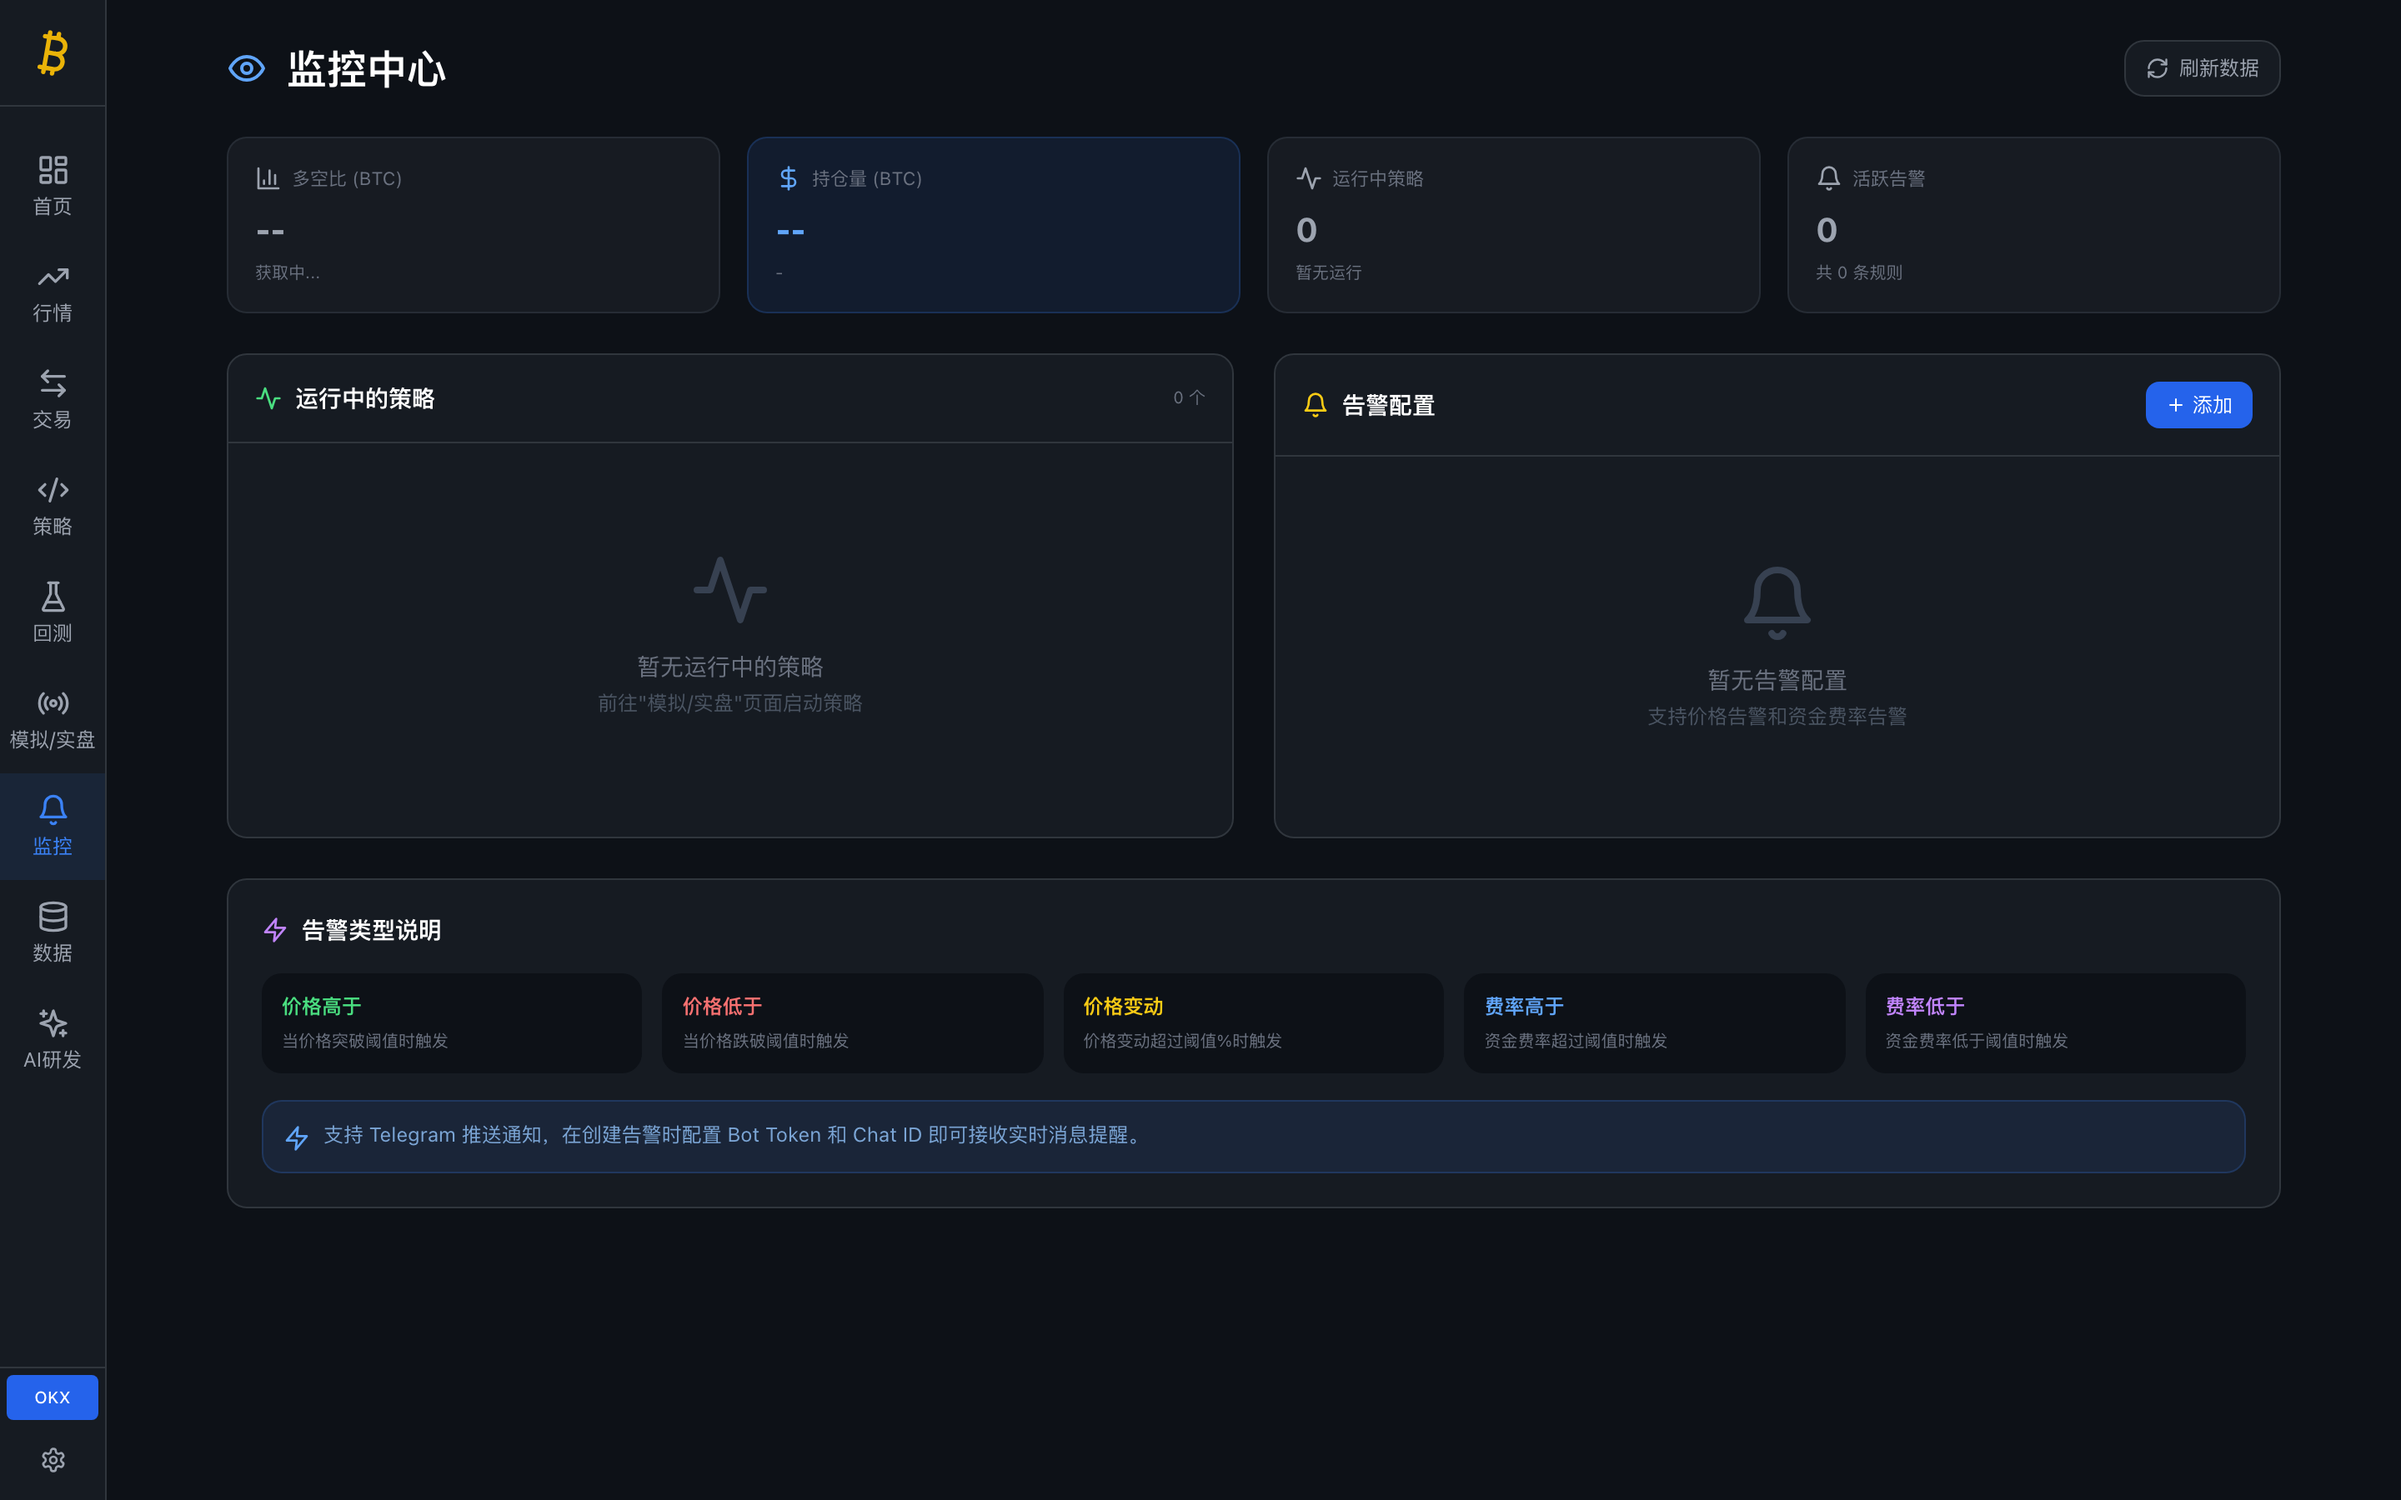
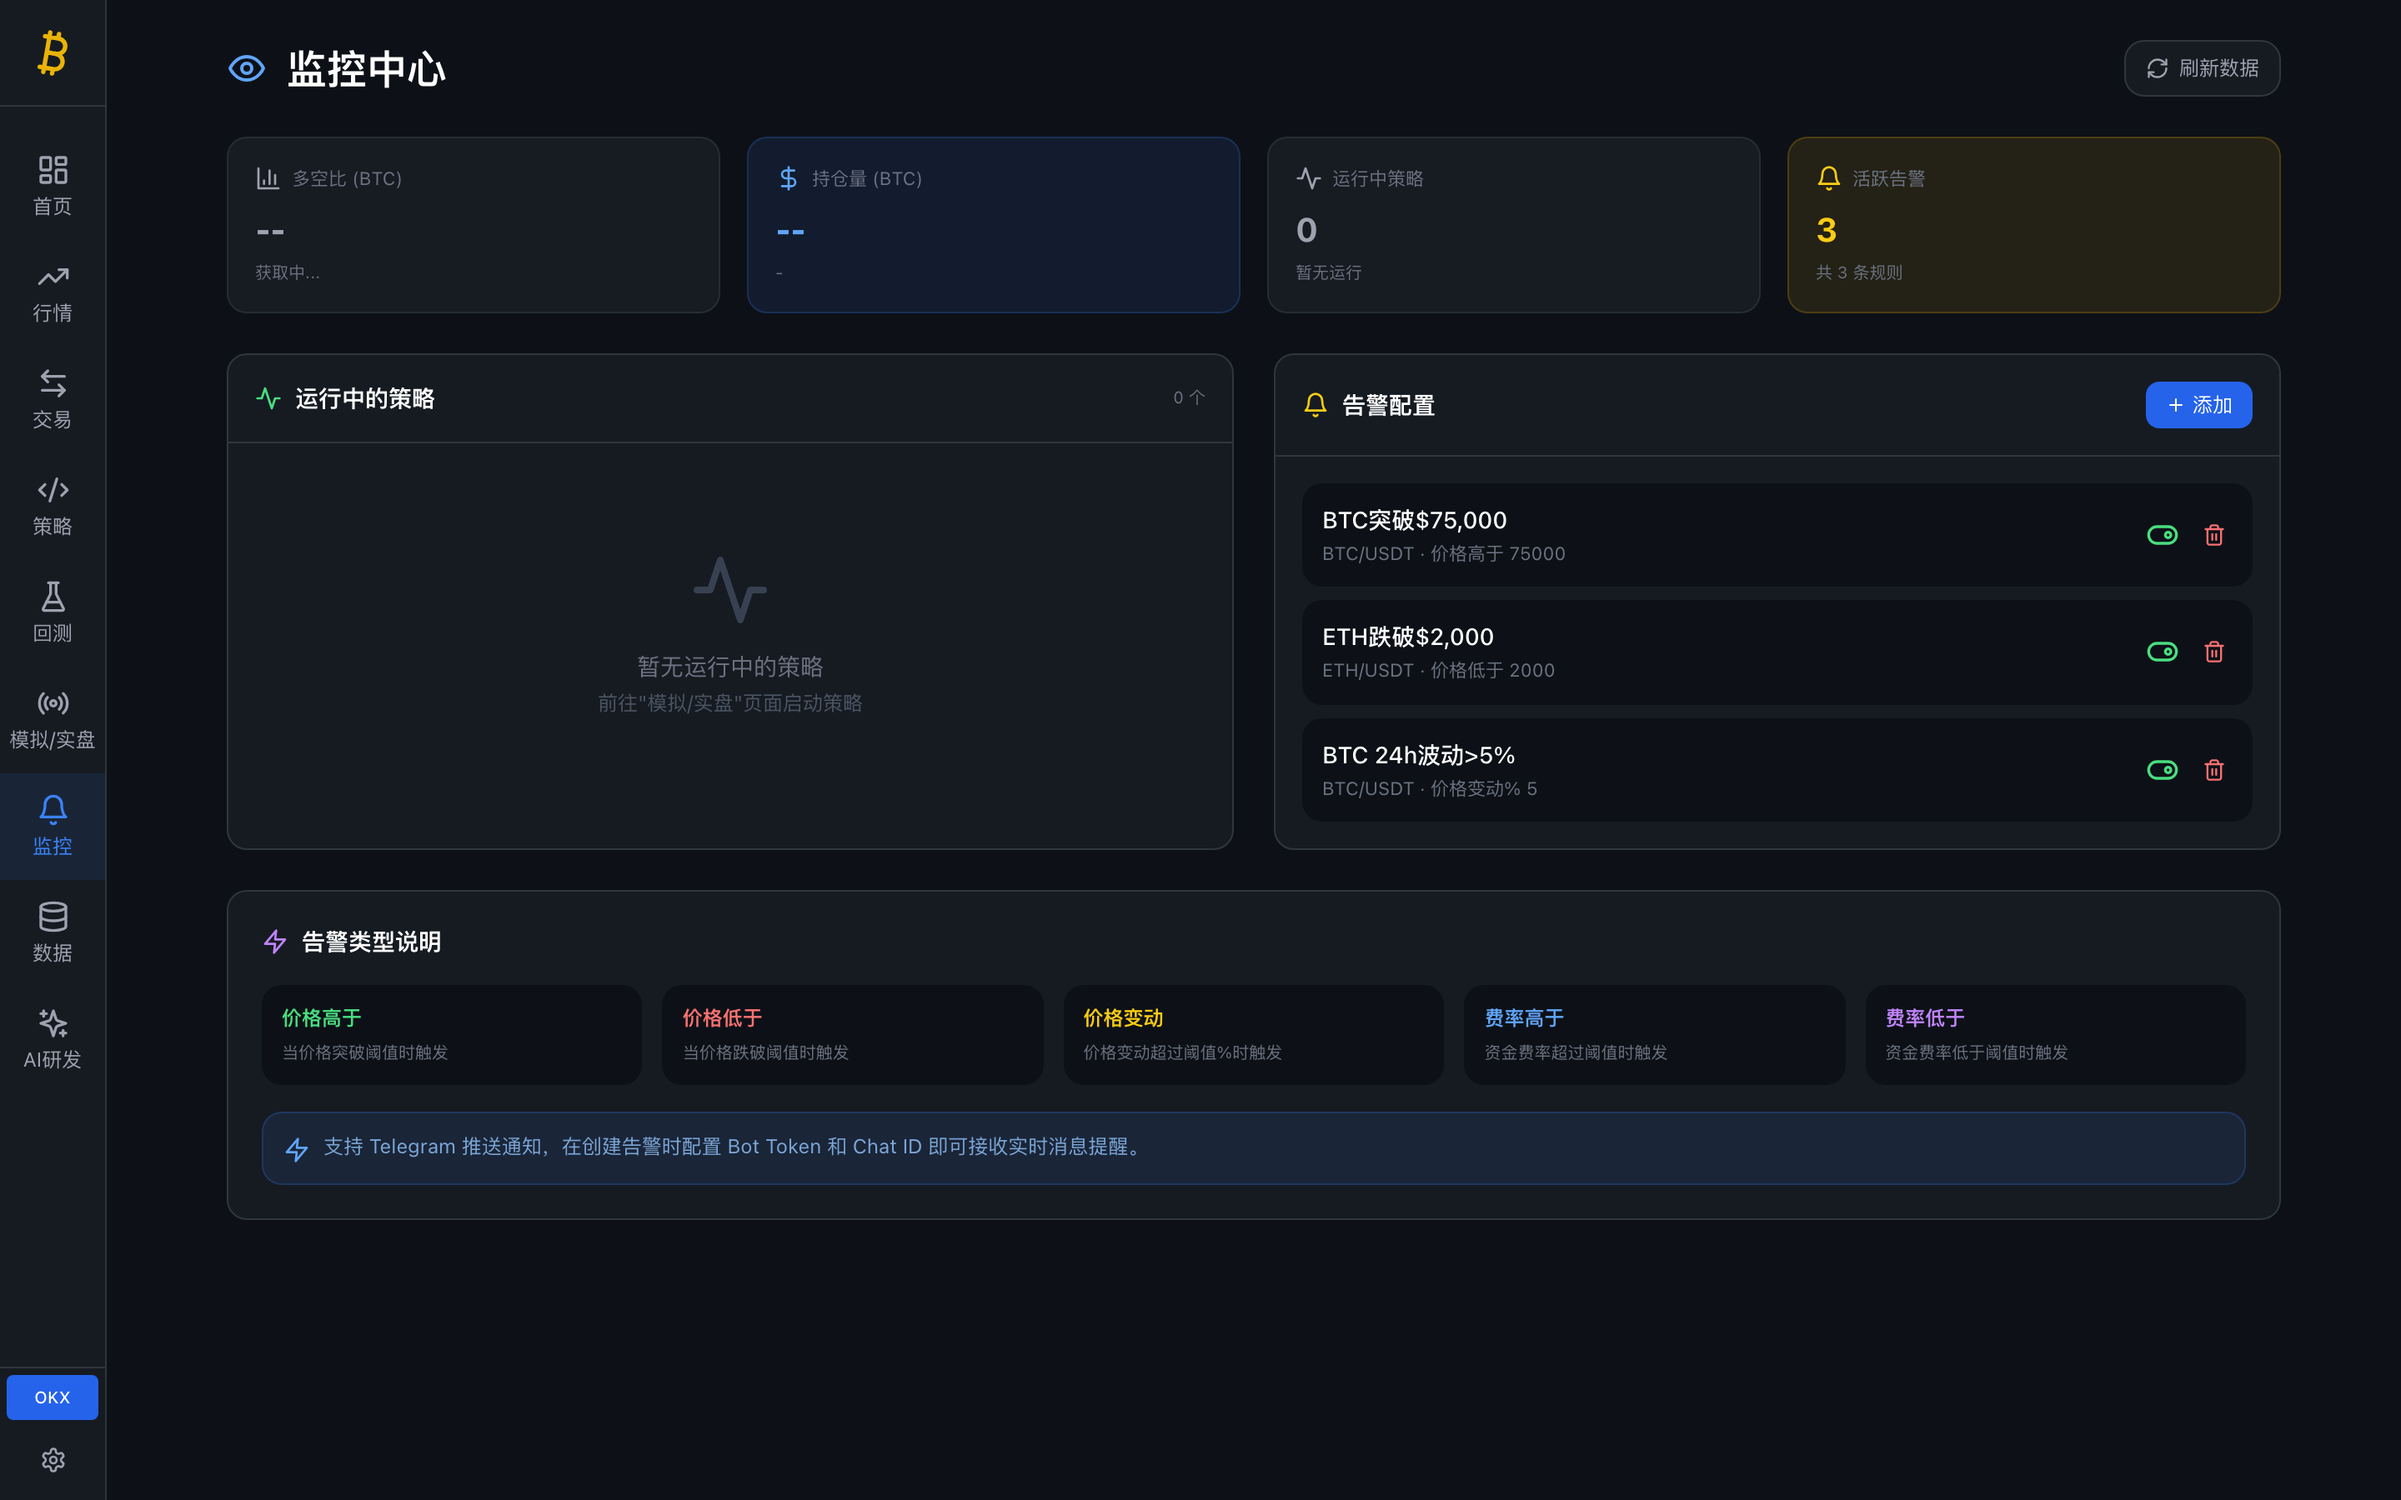
docs: 更新截图（回测/监控/模拟盘填充真实数据）并完善 README 描述
- 回测页：选择自适应布林带策略运行回测，展示完整绩效指标和资金曲线
- 监控页：创建 3 条告警规则，展示告警配置功能
- 模拟盘：策略卡片现展示回测收益率、夏普比率、最大回撤等指标
- 更新 README 中回测、交易、模拟盘、监控四个模块的截图描述

diff --git a/README.md b/README.md
@@ -28,7 +28,7 @@
 
 ### 交易下单
 
-> 支持限价/市价下单，展示现货和合约账户余额，持仓管理、当前挂单和历史订单查询，买入/卖出比例滑块快捷操作。
+> 现货/合约双模式，限价/市价下单，实时价格展示。资产面板、当前挂单和历史订单三栏切换，买入/卖出快捷操作，内置风险提示。
 
 ![交易下单](docs/screenshots/03-trading.png)
 
@@ -40,19 +40,19 @@
 
 ### 策略回测
 
-> 自研 v2 回测引擎，逐 bar 模拟交易，30+ 技术指标内置，输出完整绩效报告：夏普比率、最大回撤、胜率、盈亏比、资金曲线等。
+> 自研 v2 回测引擎，逐 bar 模拟交易，30+ 技术指标内置。BigQuant 风格核心指标面板 (累计收益/年化/夏普/胜率/盈亏比/最大回撤)，策略收益率 vs 基准指数 vs 相对收益多曲线对比图表，回撤区域可视化，支持按时间范围缩放。
 
 ![策略回测](docs/screenshots/05-backtest.png)
 
 ### 模拟盘 / 实盘交易
 
-> 策略实盘运行面板，支持模拟盘验证后再切换实盘上线，展示策略运行状态、持仓和实时收益。
+> 策略实盘运行面板，模拟盘/实盘一键切换，选择策略 → 配置参数 → 飞行检查 → 运行监控四步流程。策略卡片展示回测收益率、夏普比率、最大回撤等关键指标，支持风险等级标签。
 
 ![模拟盘/实盘](docs/screenshots/06-live.png)
 
 ### 监控中心
 
-> 系统状态仪表盘，交易所连接状态、策略运行监控、风控告警、系统资源占用，支持 Telegram 告警推送。
+> 系统状态仪表盘，多空比、持仓量、运行中策略数、活跃告警数一览。告警规则配置支持价格突破/跌破/波动、资金费率阈值等五种类型，支持 Telegram 消息推送和 Webhook 通知。
 
 ![监控中心](docs/screenshots/07-monitor.png)
 
